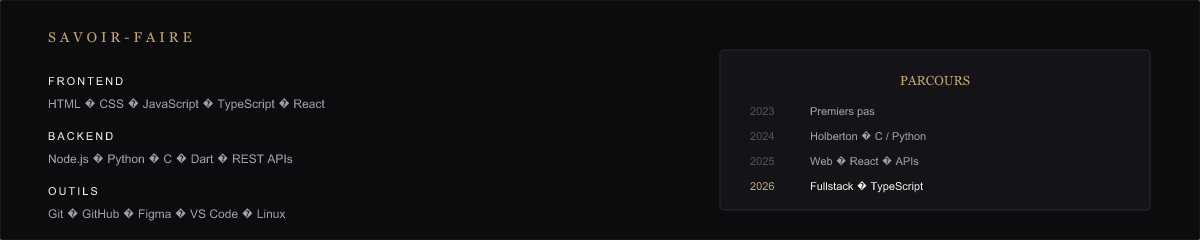
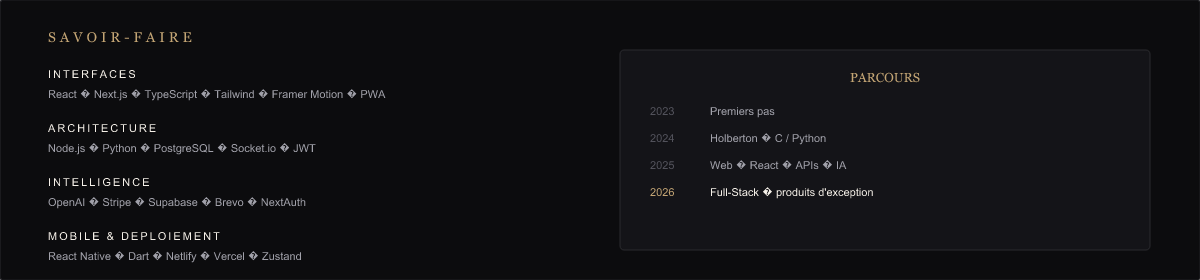
Aligner la sélection sur le portfolio et affiner l'identité
Six projets vedettes identiques au site portfolio, stack IA/Next.js,
liens live + code, visuel selection custom, bio Full-Stack & IA.

diff --git a/README.md b/README.md
@@ -4,11 +4,15 @@
 
 <br/>
 
-[![Typing](https://readme-typing-svg.demolab.com?font=Georgia&size=23&duration=4200&pause=2200&color=C4A574&center=true&width=640&lines=Concevoir+des+exp%C3%A9riences+digitales.;Construire+avec+pr%C3%A9cision.;Livrer+avec+exigence.)](https://github.com/alfredgibeau-ahoussinou)
+[![Typing](https://readme-typing-svg.demolab.com?font=Georgia&size=22&duration=4500&pause=2400&color=C4A574&center=true&width=700&lines=Full-stack+%26+IA+%E2%80%94+produits+web+d%27exception.;J%27architecte+des+exp%C3%A9riences+digitales.;Ing%C3%A9nierie+web+%C2%B7+Intelligence+artificielle.)](https://alfredgibeau-ahoussinou-portfolio.vercel.app)
 
 <br/>
 
-*Développeur fullstack · Holberton School Paris · France*
+*Développeur Full-Stack & IA · Puteaux, France*
+
+<br/>
+
+[![Portfolio](https://img.shields.io/badge/Portfolio-voir+le+site-c4a574?style=for-the-badge&logo=vercel&logoColor=0c0c0e&labelColor=141418)](https://alfredgibeau-ahoussinou-portfolio.vercel.app)
 
 <br/>
 
@@ -20,22 +24,22 @@
 
 <div align="center">
 
-> *« Chaque interface est une première impression.*
-> *Chaque ligne de code, une intention. »*
+> *« J'architecte des expériences digitales*
+> *où l'ingénierie rencontre l'intelligence artificielle. »*
 
 </div>
 
 <br/>
 
-Étudiant à **Holberton School Paris**, je conçois des applications web élégantes et performantes — du prototype au déploiement. Mon fil conducteur : **clarté**, **rigueur** et **sens du détail**.
+Développeur **full-stack & ingénieur IA**, j'élabore des architectures web et des expériences pensées pour l'impact — React, Next.js, Node.js, intégrations IA et produits soignés de bout en bout.
 
 <br/>
 
 | | |
 |:---|:---|
-| **Vision** | Des produits utiles, soignés, mémorables |
-| **Pratique** | TypeScript, React, APIs, design centré utilisateur |
-| **Ouverture** | Collaborations, stages, projets ambitieux |
+| **Expertise** | Interfaces · Architecture · Intelligence · Mobile |
+| **Précision** | Systèmes robustes, élégants, conçus pour évoluer |
+| **Ouverture** | Collaborations, missions techniques, produits ambitieux |
 
 <div align="center">
 
@@ -57,41 +61,32 @@
 
 </div>
 
-## Créations
+## Sélection
 
 <div align="center">
 
-<table>
-<tr>
-<td align="center">
-
-[![PRODAY](https://img.shields.io/badge/PRODAY-Application-c4a574?style=for-the-badge&logo=typescript&logoColor=0c0c0e&labelColor=141418)](https://github.com/alfredgibeau-ahoussinou/PRODAY)
-
-[![LAME](https://img.shields.io/badge/LAME-Barber%20Concierge-c4a574?style=for-the-badge&logo=typescript&logoColor=0c0c0e&labelColor=141418)](https://github.com/alfredgibeau-ahoussinou/LAME-Barber-Concierge)
-
-[![Synapse](https://img.shields.io/badge/Synapse-AI%20R%C3%A9sum%C3%A9-c4a574?style=for-the-badge&logo=openai&logoColor=0c0c0e&labelColor=141418)](https://github.com/alfredgibeau-ahoussinou/Synapse-AI---G-n-rateur-de-R-sum-s-de-Contenu-Long)
-
-</td>
-<td align="center">
-
-[![StoneFaste](https://img.shields.io/badge/StoneFaste-Web%20TS-c4a574?style=for-the-badge&logo=node.js&logoColor=0c0c0e&labelColor=141418)](https://github.com/alfredgibeau-ahoussinou/StoneFaste)
-
-[![Portfolio](https://img.shields.io/badge/Portfolio-Site%20web-c4a574?style=for-the-badge&logo=html5&logoColor=0c0c0e&labelColor=141418)](https://github.com/alfredgibeau-ahoussinou/portfolio4)
-
-[![Login](https://img.shields.io/badge/Login-UI%20anim%C3%A9e-c4a574?style=for-the-badge&logo=css3&logoColor=0c0c0e&labelColor=141418)](https://github.com/alfredgibeau-ahoussinou/porfoliio-tests)
-
-</td>
-</tr>
-</table>
+![](https://raw.githubusercontent.com/alfredgibeau-ahoussinou/alfredgibeau-ahoussinou/main/assets/png/selection-projets.png)
 
 </div>
 
 <br/>
 
-| Projet | Description |
-|:-------|:------------|
-| [EvaSport](https://github.com/alfredgibeau-ahoussinou/EvaSporthtml) | Site sport — HTML |
-| [SocialPlanr](https://github.com/alfredgibeau-ahoussinou/SocialPlanr-Gestionnaire-d-v-nements-collaboratif-intelligent) | Événements collaboratifs — TypeScript |
+| | Projet | Description | Accès |
+|:-:|:-------|:------------|:------|
+| **01** | **NailsConnection.Z** | Réservation nail tech à Grenoble — créneaux, espace cliente, Resend | [Site](https://nailsconnection-z.netlify.app) · [Code](https://github.com/alfredgibeau-ahoussinou/nailsconnection-z-docs) |
+| **02** | **Code Academy Alfred** | Académie bilingue FR/EN — 18 modules, progression locale, TTS | [Site](https://code-academy-alfred.netlify.app) · [Code](https://github.com/alfredgibeau-ahoussinou/code-academy-alfred-docs) |
+| **03** | **Aether Studio** | Plateforme IA créative — automatisations, prompts, Notion & Slack | [Site](https://aether-studio-fawn.vercel.app) · [Code](https://github.com/alfredgibeau-ahoussinou/aether-studio) |
+| **04** | **JW Games** | Jeux bibliques & médiathèque — PWA, 15 modes, profil XP/badges | [Site](https://jwgames.netlify.app) · [Code](https://github.com/alfredgibeau-ahoussinou/jw-games) |
+| **05** | **ProDay** | App sportive — profil athlète, mercato, journal, saison | [Site](https://proday75.fr) · [Code](https://github.com/alfredgibeau-ahoussinou/PRODAY-docs) |
+| **06** | **XOhair** | Salon Melun — réservation perruques & mèches, confirmations Brevo | [Site](https://xo-hair-melun.netlify.app) · [Code](https://github.com/alfredgibeau-ahoussinou/XO-HAIR) |
+
+<br/>
+
+<div align="center">
+
+[![Explorer le portfolio](https://img.shields.io/badge/Explorer-le+portfolio+complet-c4a574?style=for-the-badge&logo=vercel&logoColor=0c0c0e&labelColor=141418)](https://alfredgibeau-ahoussinou-portfolio.vercel.app)
+
+</div>
 
 <details>
 <summary><b>Formation · Holberton School</b></summary>
@@ -137,14 +132,14 @@
 
 <div align="center">
 
+[![Portfolio](https://img.shields.io/badge/Portfolio-Site+c4a574?style=for-the-badge&logo=vercel&logoColor=0c0c0e&labelColor=141418)](https://alfredgibeau-ahoussinou-portfolio.vercel.app)
 [![LinkedIn](https://img.shields.io/badge/LinkedIn-Profil-c4a574?style=for-the-badge&logo=linkedin&logoColor=0c0c0e&labelColor=141418)](https://www.linkedin.com/in/alfred-gibeau-ahoussinou-810a25264)
-[![Email](https://img.shields.io/badge/Email-%C3%89crire-c4a574?style=for-the-badge&logo=gmail&logoColor=0c0c0e&labelColor=141418)](mailto:alfredgibeauahoussinou@gmail.com)
-[![Medium](https://img.shields.io/badge/Medium-Articles-c4a574?style=for-the-badge&logo=medium&logoColor=0c0c0e&labelColor=141418)](https://medium.com/@alfredgibeauahoussinou)
+[![Email](https://img.shields.io/badge/Email-%C3%89crire-c4a574?style=for-the-badge&logo=gmail&logoColor=0c0c0e&labelColor=141418)](mailto:alfred.ahoussinou@gmail.com)
 [![GitHub](https://img.shields.io/badge/GitHub-Repos-c4a574?style=for-the-badge&logo=github&logoColor=0c0c0e&labelColor=141418)](https://github.com/alfredgibeau-ahoussinou)
 
 <br/><br/>
 
-*Un projet, un stage, une collaboration — la conversation commence ici.*
+*Un projet en tête ? Discutons de votre vision — produit web, intégration IA ou mission technique.*
 
 <br/><br/>
 
